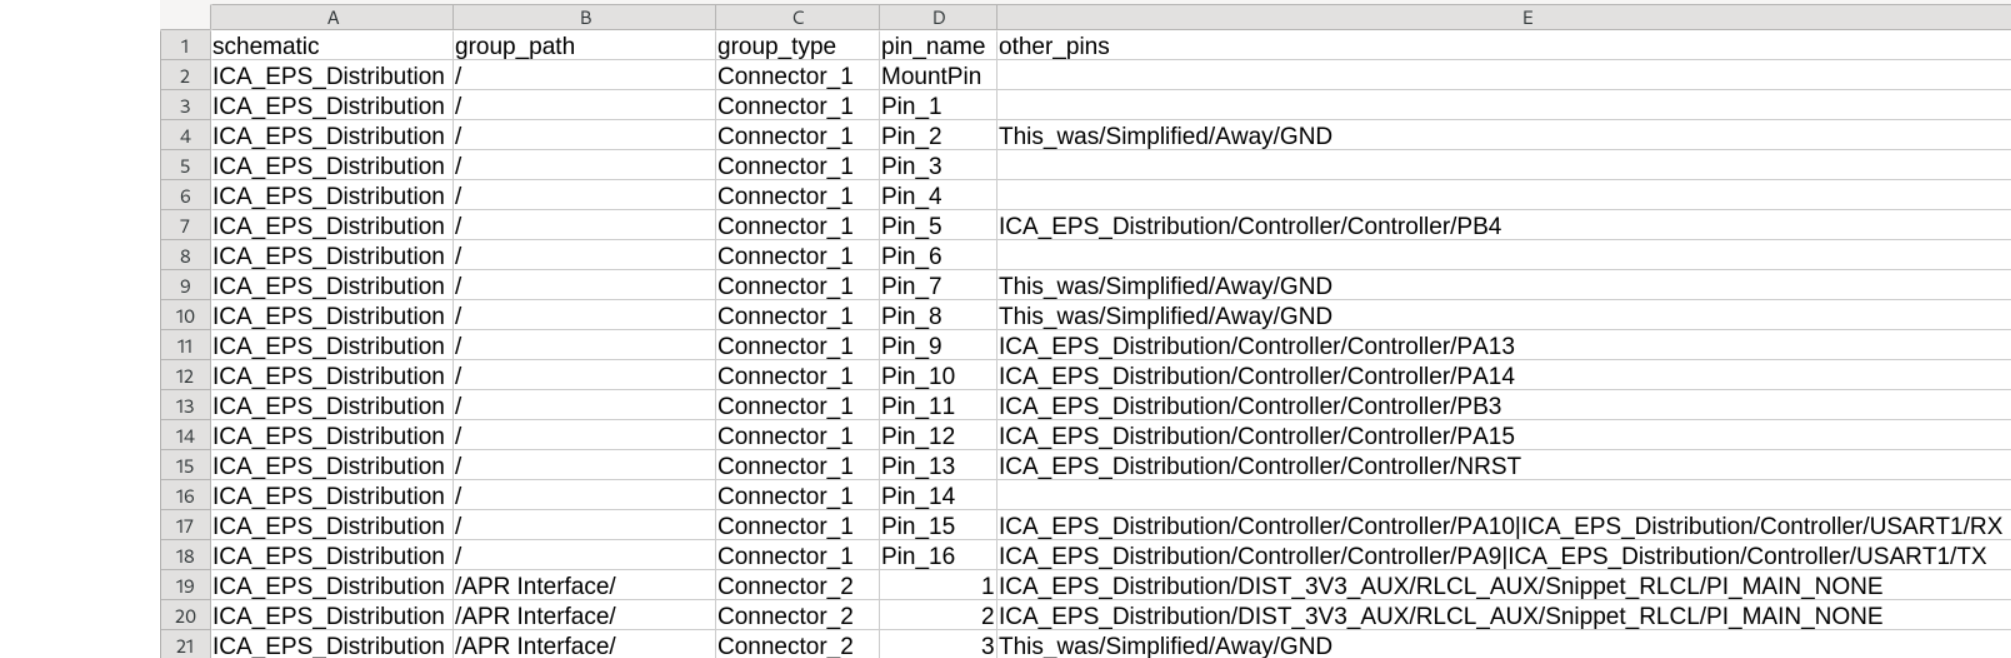
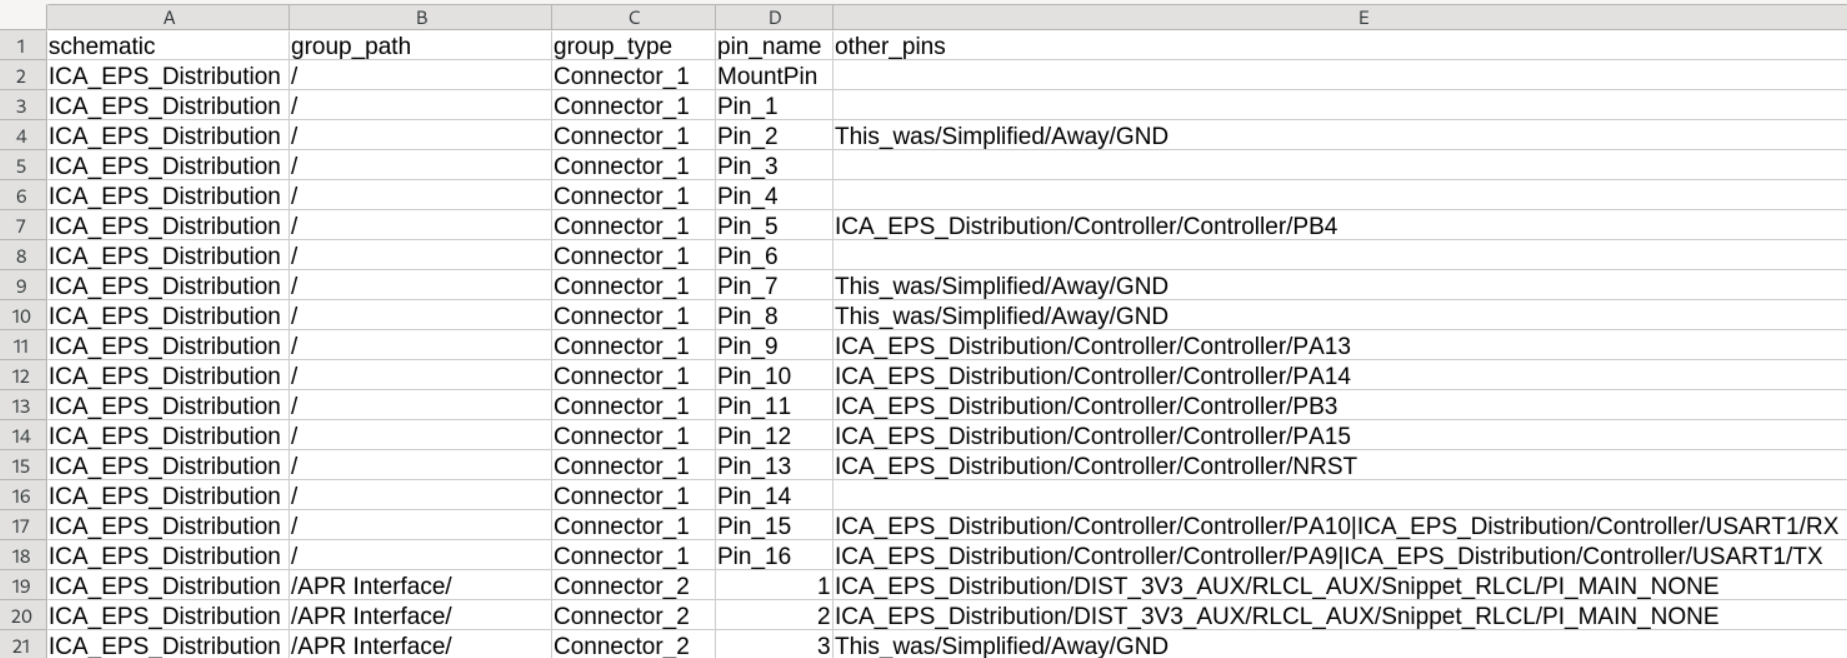
feat: complete kicad_firmware_generation slides

Changed region(s): [[0.0, 0.0, 1.0, 1.0]]

diff --git a/2026_02_18_dlr_kicad_firmware_generation/index.html b/2026_02_18_dlr_kicad_firmware_generation/index.html
@@ -73,6 +73,7 @@
                         <div>
                             <h3>PCDU</h3>
                             <ul>
+                                <li>Developed by DLR Avionics Systems</li>
                                 <li>Part of PLUTO</li>
                                 <li>Between solar arrays and subsystems</li>
                                 <li>Central job: TMTC<br />
@@ -116,7 +117,7 @@
                 </section>
                 <section>
                     <div class="half-part">
-                        <p>KiCad Schematics</p>
+                        <h3>KiCad Schematics</h3>
                         <img src="./images/example_schematics_cropped.png" width="400" />
                     </div>
                     <div class="half-part">
@@ -127,7 +128,7 @@
                         <!--         </code> -->
                         <!--     </pre> -->
                         <!-- </div> -->
-                        <p>&rarr; C++ Firmware</p>
+                        <h3>&rarr; C++ Firmware</h3>
                         <pre>
                             <code class="small-code" data-code="./listings/snippet_board.h">
                             </code>
@@ -197,14 +198,14 @@
                             <h3>Group Netlist XML</h3>
                             <ul>
                                 <li>Abstract view on hardware (challenge: right degree of abstraction)</li>
-                                <li>Stores connections between Groups' Pins</li>
-                                <li>With Python library (parsing and helper functions)</li>
+                                <li>Store Group connections</li>
+                                <li>With Python library (parse and provide different perspectives)</li>
                             </ul>
                         </div>
                     </div>
                 </section>
                 <section>
-                    <h2>kicad_group_netlister</h2>
+                    <h2>Tool 1: kicad_group_netlister</h2>
                     <div class="half-part">
                         <ul>
                             <li>Jobs:
@@ -259,7 +260,7 @@
                     <img data-id="1" src="./images/software_overview_03.png" width="1200" />
                 </section>
                 <section>
-                    <h2>code_gen</h2>
+                    <h2>Tool 2: code_gen</h2>
                     <ul>
                         <li>Read Group Netlist (with Python library)</li>
                         <li>Pass info to Jinja2 template<br />
@@ -301,13 +302,26 @@
                     <img data-id="1" src="./images/software_overview_05.png" width="1200" />
                 </section>
                 <section>
-                    <h2>netlist_to_csv</h2>
-                    <ul>
-                        <li>Very small</li>
-                        <li>Harness Specification</li>
-                        <li>Simplify info; focus on certain things only</li>
-                    </ul>
-                    <img src="./images/csv.png" width="400" />
+                    <h2>Tool 3: netlist_to_csv</h2>
+                    <div class="half-part">
+                        <ul>
+                            <li>Example use-case: harness specification
+                                <ul>
+                                    <li>Wiring between subsystems</li>
+                                </ul>
+                            </li>
+                            <li>Create spreadsheet showing
+                                <ul>
+                                    <li>list of connectors</li>
+                                    <li>connector types</li>
+                                    <li>connector pinouts</li>
+                                </ul>
+                            </li>
+                        </ul>
+                    </div>
+                    <div class="half-part">
+                        <img src="./images/csv_cropped.png" width="1000" />
+                    </div>
                 </section>
                 <section data-auto-animate>
                     <h2 data-id="2">Tooling Overview (5)</h2>
@@ -324,18 +338,45 @@
                     <h2 data-id="2">Tooling Overview (7)</h2>
                     <img data-id="1" src="./images/software_overview_07.png" width="1200" />
                 </section>
-                <section>
-                    <h2>group_netlist_merger</h2>
-                    <ul>
-                        <li>Merge multiple PCBs</li>
-                        <li>Group Netlist very good place</li>
-                    </ul>
+                <section data-auto-animate data-auto-animate-restart>
+                    <div class="half-part">
+                        <h2 style="margin-top: 50px;">Tool 4: group_netlist_merger</h2>
+                        <ul>
+                            <li>Multiple PCBs with connectors</li>
+                            <li>Use:
+                                <ol>
+                                    <li>Generate Group Netlist for each PCB</li>
+                                    <li>Specify connectors to connect
+                                        &rarr; group_netlist_merger</li>
+                                    <li>Use combined Group Netlist<br />
+                                        e.g., firmware for combined hardware</li>
+                                </ol>
+                            </li>
+                        </ul>
+                    </div>
+                    <div class="half-part">
+                        <img data-id="1" src="./images/connectors_01.png" width="600" />
+                    </div>
                 </section>
                 <section data-auto-animate>
-                    <img data-id="1" src="./images/connectors_01.png" width="600" />
-                </section>
-                <section data-auto-animate>
-                    <img data-id="1" src="./images/connectors_02.png" width="600" />
+                    <div class="half-part">
+                        <h2 style="margin-top: 50px;">Tool 4: group_netlist_merger</h2>
+                        <ul>
+                            <li>Multiple PCBs with connectors</li>
+                            <li>Use:
+                                <ol>
+                                    <li>Generate Group Netlist for each PCB</li>
+                                    <li>Specify connectors to connect
+                                        &rarr; group_netlist_merger</li>
+                                    <li>Use combined Group Netlist<br />
+                                        e.g., firmware for combined hardware</li>
+                                </ol>
+                            </li>
+                        </ul>
+                    </div>
+                    <div class="half-part">
+                        <img data-id="1" src="./images/connectors_02.png" width="600" />
+                    </div>
                 </section>
             </section>
 
@@ -346,16 +387,40 @@
                 </section>
                 <section>
                     <h2>Evaluation</h2>
-                    how did we apply it?
+                    <p>Integration in PCDU Design Process at DLR Avionics Systems</p>
+                    <div class="half-part">
+                        <ul>
+                            <li>kicad_group_netlister:<br />Annotate PCDU KiCad schematics</li>
+                            <li>group_netlist_merger:<br />Support both PLUTO PCDU's Distribution and SOLBAT boards</li>
+                        </ul>
+                    </div>
+                    <div class="half-part">
+                        <ul>
+                            <li>code_gen:<br />Generate part of PCDU firmware</li>
+                            <li>netlist_to_csv:<br />Create PLUTO PCDU CSV for harness specification</li>
+                            <li>Group Netlist and Python library:<br />Snippet based design analysis</li>
+                        </ul>
+                    </div>
                 </section>
             </section>
 
             <section>
-                <section>
-                    <h2>kicad_firmware_generation</h2>
-                    <ul>
-                        <li>some summary</li>
-                    </ul>
+                <section data-state="dark-background" data-background-image="./IMG_5928_cropped.jpg"
+                    data-background-opacity="1.0">
+                    <div class="half-part">
+                        &nbsp;
+                    </div>
+                    <div class="half-part">
+                        <!-- <h4>Main Ideas</h4> -->
+                        <ol>
+                            <li>KiCad Netlist<br />&rarr; solve tracing problem</li>
+                            <li>Intermediate format<br />&rarr; more use-cases</li>
+                            <li>Jinja2 &rarr; Open-Source</li>
+                        </ol>
+                        <img src="./images/software_overview_07.png" width="1200" />
+                    </div>
+                    <a
+                        href="https://github.com/DLR-RY/kicad_firmware_generation">github.com/DLR-RY/kicad_firmware_generation</a>
                 </section>
             </section>
         </div>

diff --git a/2026_02_18_dlr_kicad_firmware_generation/style.css b/2026_02_18_dlr_kicad_firmware_generation/style.css
@@ -18,6 +18,7 @@
 }
 
 .dark-background h4,
-.dark-background h3 {
+.dark-background h3,
+.dark-background li {
     color: white;
 }
